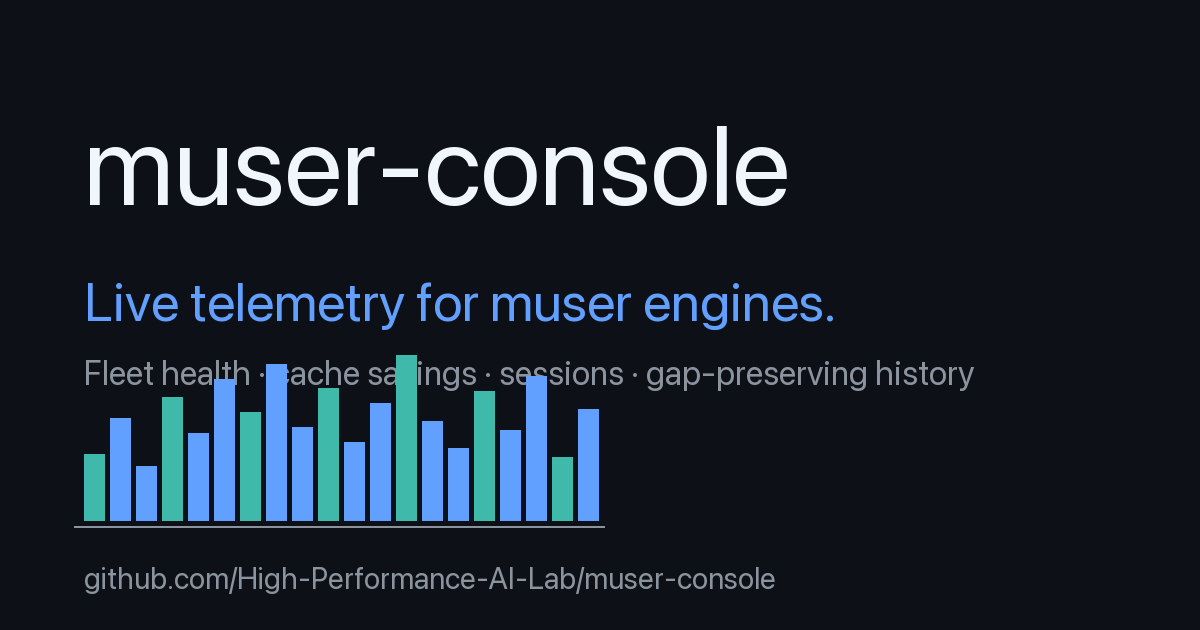
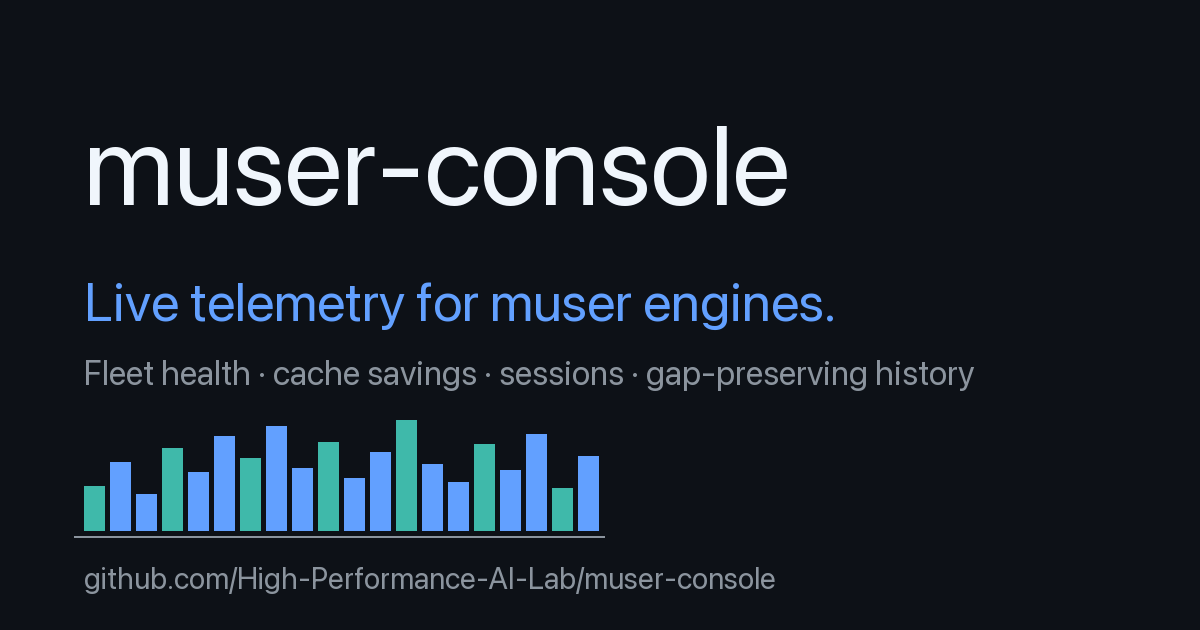
assets: keep the telemetry strip clear of the card text
The tallest bars (3x scale from a 520 baseline) rose into the feature
line above; scale bars 2x from a 530 baseline so the strip sits between
the feature line and the URL with clear margins.

Changed region(s): [[0.0617, 0.573, 0.5242, 0.7841], [0.0617, 0.8143, 0.5242, 0.8746]]

diff --git a/scripts/generate_social_card.py b/scripts/generate_social_card.py
@@ -51,11 +51,12 @@ def render() -> Image.Image:
     d.text((x, 352), "Fleet health · cache savings · sessions · gap-preserving history",
            font=font(34), fill=DIM)
 
-    # telemetry strip: alternating accent bars on a baseline
-    bx, base, bw = x, 520, 26
+    # telemetry strip: alternating accent bars on a baseline, scaled to sit
+    # clear of the feature line above (bottom ~394) and the URL below (560)
+    bx, base, bw = x, 530, 26
     for i, h in enumerate(BARS):
         color = ACCENT if i % 3 else ACCENT2
-        d.rectangle([bx, base - h * 3, bx + bw - 6, base], fill=color)
+        d.rectangle([bx, base - h * 2, bx + bw - 6, base], fill=color)
         bx += bw
     d.line([x - 10, base + 6, x + len(BARS) * bw, base + 6], fill=DIM, width=2)
 
